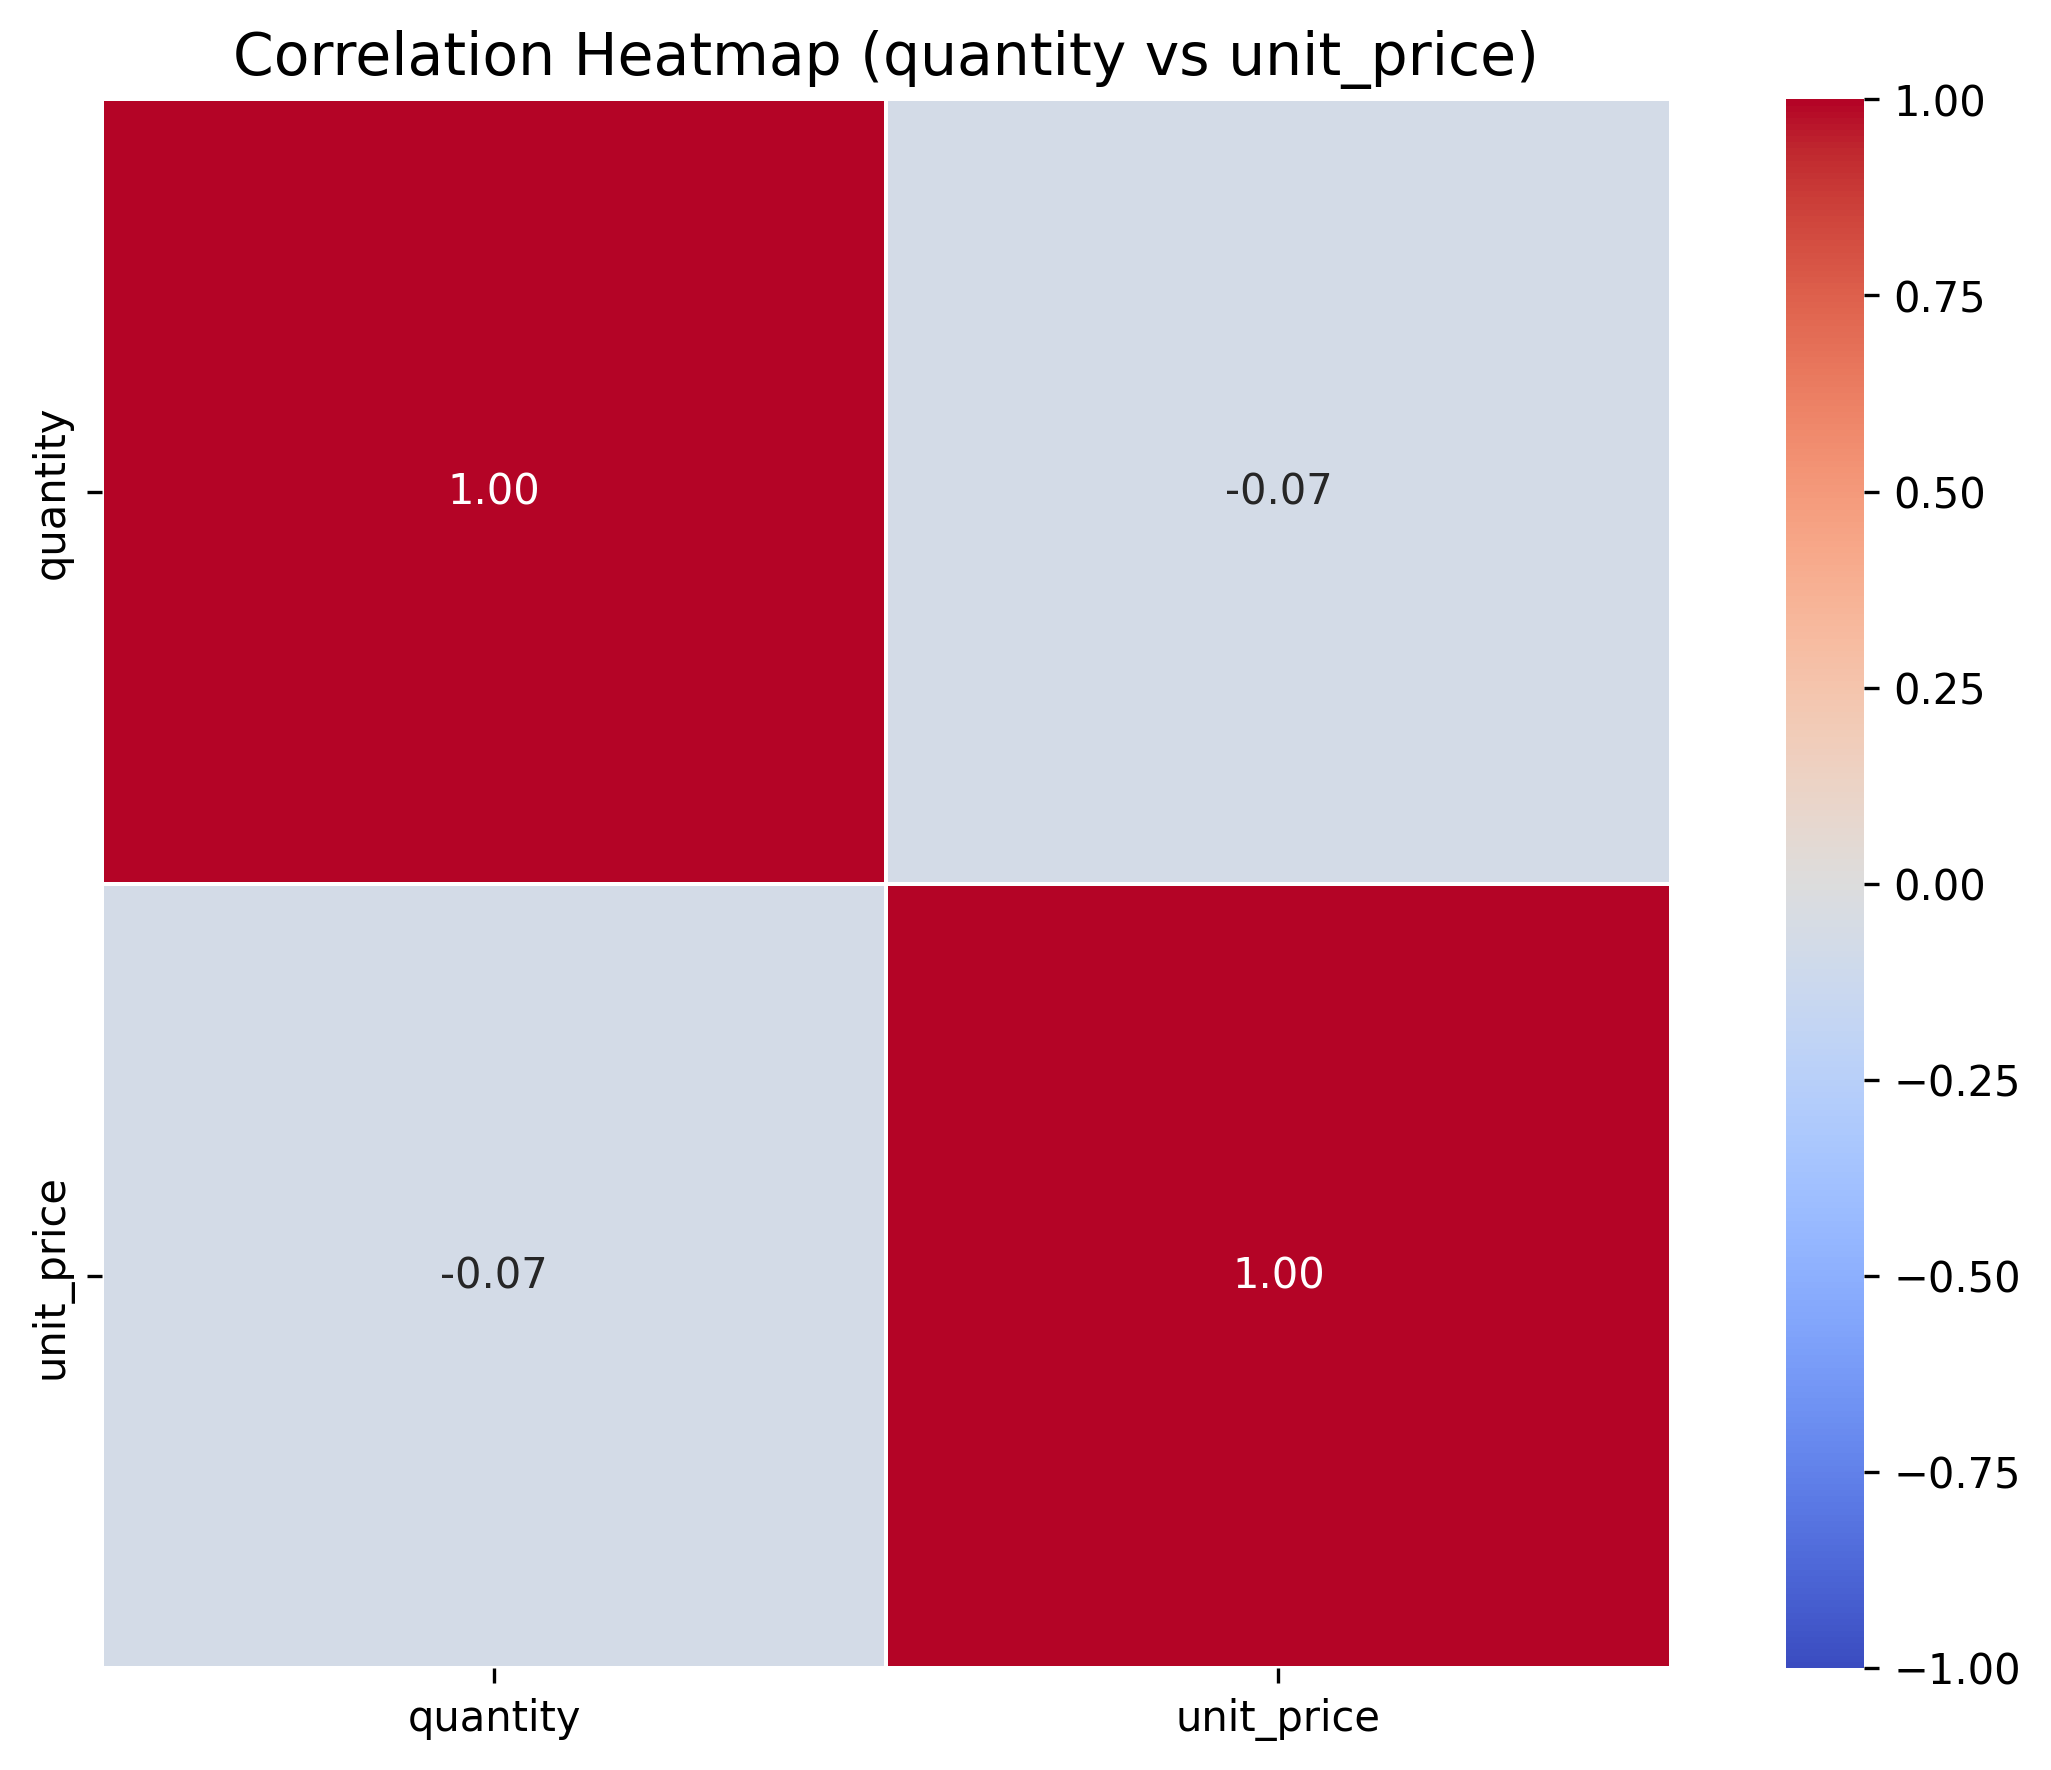
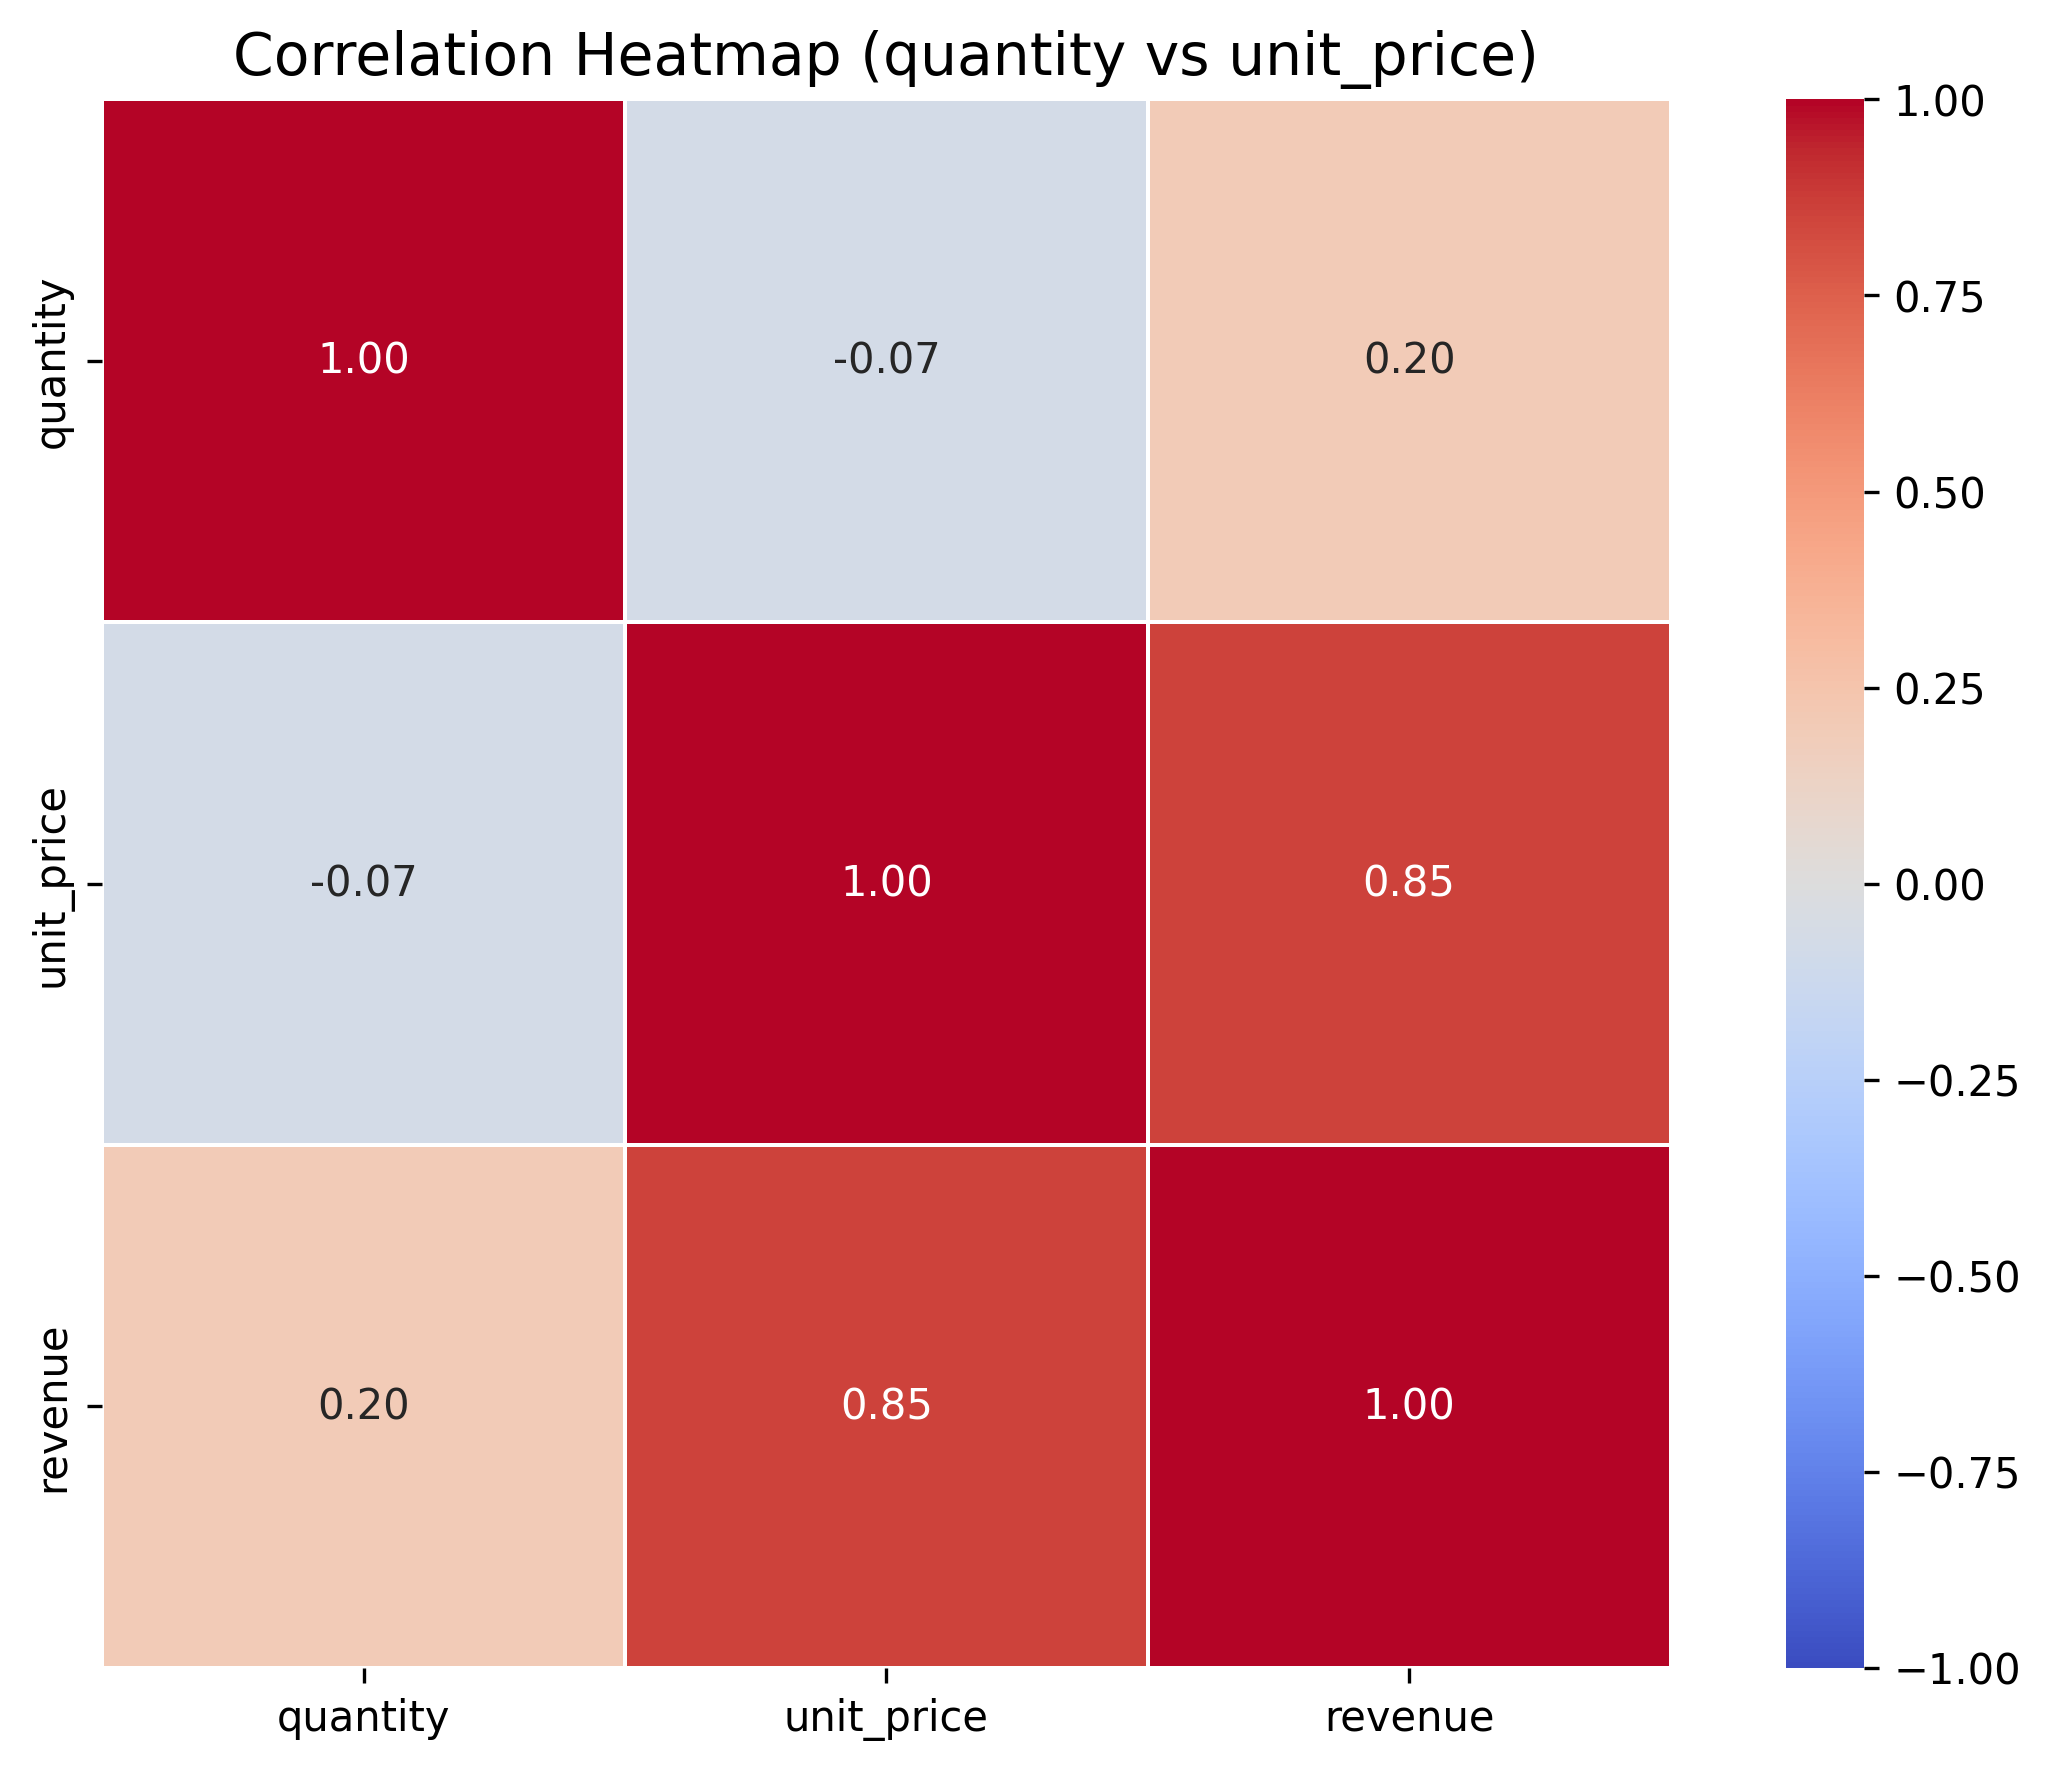
Complete Module 4 Core Skills Drill - Descriptive Analytics

diff --git a/drill_eda.py b/drill_eda.py
@@ -81,14 +81,17 @@ def main():
     print(f"✅ Data loaded! Shape: {df.shape}")
     print(f"Columns: {df.columns.tolist()}\n")
 
+    df['revenue'] = df['quantity'] * df['unit_price']
+    print(f"✅ Data loaded! Shape: {df.shape}")
+    print(f"Columns: {df.columns.tolist()}\n")
+
     # Task 1: Summary Statistics
     summary = compute_summary(df)
     print("\nSummary Statistics:\n", summary.round(2))
 
-    # Task 2: Distribution Plots → استخدمنا الأعمدة الرقمية الصحيحة
-    numeric_cols = ['quantity', 'unit_price']
-    print(f"\nPlotting distributions for: {numeric_cols}")
-    plot_distributions(df, numeric_cols)
+    # Task 2: Distribution Plots → 
+       
+    numeric_cols = ['quantity', 'unit_price', 'revenue']
 
     # Task 3: Correlation Heatmap
     plot_correlation(df)
